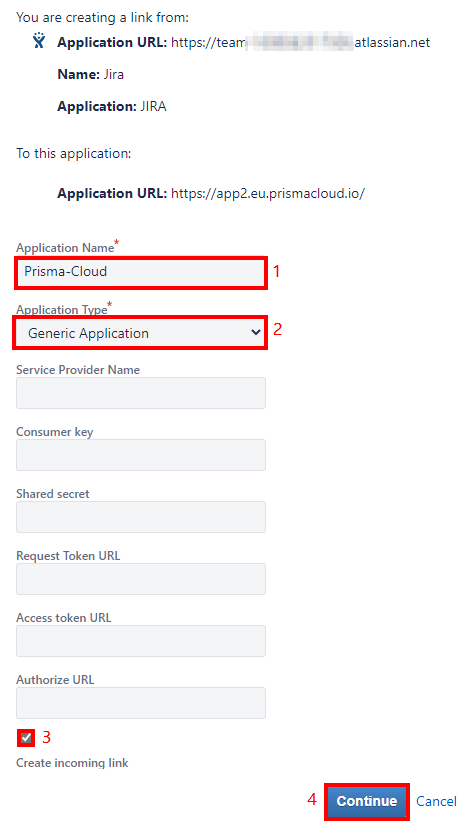
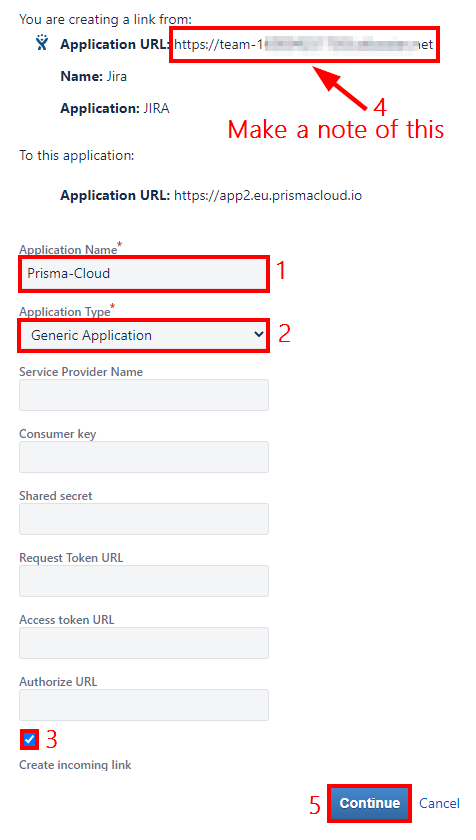
updated module 4

diff --git a/workshops/azure-cloud-protection/modules/4-jira-integration.md b/workshops/azure-cloud-protection/modules/4-jira-integration.md
@@ -12,6 +12,7 @@ In the previous module, you added your Azure AD tenant to Prisma Cloud. In this 
 >* Configure JIRA integration in your Prisma Cloud account
 >* Create a JIRA notification template in your Prisma Cloud account
 >* Create an alert rule in Prisma Cloud to raise tasks in JIRA
+>* Verify Prisma Cloud alerts in JIRA
 
 ## Exercise 1 - Prepare JIRA for integration
 >* In order to integrate Prisma Cloud with JIRA, we need to create a Prisma Cloud Application link in JIRA. This process requires an account that has administrative privileges in JIRA.
@@ -22,7 +23,7 @@ In the previous module, you added your Azure AD tenant to Prisma Cloud. In this 
 
 ![jira-products](../images/4-jira-products.png)
 
-3. In the **Configure Application Links** window, enter your Prisma Cloud console URL and click **`Create new link`**
+3. On the **Products** page, click on **`Application links`**. In the **Configure Application Links** window, enter your Prisma Cloud console URL and click **`Create new link`**
 >* You can get a full list of the console URLs [from this document](https://docs.paloaltonetworks.com/prisma/prisma-cloud/prisma-cloud-admin/get-started-with-prisma-cloud/access-prisma-cloud.html)
 >* Make sure you use your console URL for your Prisma cloud tenant.
 
@@ -51,8 +52,6 @@ In the previous module, you added your Azure AD tenant to Prisma Cloud. In this 
    * Click **`Continue`**
 
 ![jira-app-link-config](../images/4-jira-app-link-config-b.png)
-
-
 
 ## Exercise 2 - Configure JIRA integration in Prisma Cloud
 1. Open a web browser and go to your Prisma Cloud console 
@@ -94,7 +93,9 @@ In the previous module, you added your Azure AD tenant to Prisma Cloud. In this 
 
 9. Click on **`SAVE`**
 
+10. The JIRA integration status should show a green check mark.
 
+![prisma-jira-status](../images/4-prisma-jira-status.png)
 
 ## Exercise 3 - Create notification template in Prisma Cloud
 1. In the Prisma Cloud console, go to **`Alerts`** → **`Notification Templates`** → **`Add New`**.
@@ -135,12 +136,18 @@ In the previous module, you added your Azure AD tenant to Prisma Cloud. In this 
       <$PolicyRecommendation>
    ```
    * Click **`Next`**
+
 ![prisma-jira-alert-format](../images/4-prisma-jira-alert-format.png)
+
+**For more information on the alert payload field, please refer to this document: [Prisma Cloud Alert Payload](https://docs.paloaltonetworks.com/prisma/prisma-cloud/prisma-cloud-admin/manage-prisma-cloud-alerts/alert-payload)**
 
 5. In the **Review** section, click **`Test`** then click **`Save`**
 
 ![prisma-jira-template-test](../images/4-prisma-jira-template-test.png)
 
+6. You should see a success message in the top right corner. Also, the JIRA integration status should show a green check mark.
+
+![prisma-jira-template-status](../images/4-prisma-jira-template-status.png)
 
 ## Exercise 4 - Create alert rule in Prisma Cloud
 1. In the Prisma Cloud console, go to **`Alerts`** → **`Alert Rules`** → **`Add New`**.
@@ -177,9 +184,19 @@ In the previous module, you added your Azure AD tenant to Prisma Cloud. In this 
 ![](../images/4-prisma-jira-notification.png)
 
 
+## Exercise 5 - Verify alerts in JIRA
+1. Back in the JIRA console, go to the **`Azure-Cloud-Security`** project that you created in the pre-requisite section.
+
+2. In the **Kanban board** of the project, you should see a sample alert that was sent as a test from Prisma Cloud.
+
+![prisma-alertrule-run](../images/4-jira-alert-01.png)
+
+3. Other alerts will be sent into JIRA as we continue through the workshop.
+
 ## Learn more
 * [Integrate Prisma Cloud with Jira](https://docs.paloaltonetworks.com/prisma/prisma-cloud/prisma-cloud-admin/configure-external-integrations-on-prisma-cloud/integrate-prisma-cloud-with-jira.html)
 * [Create an Alert Rule for Run-Time Checks](https://docs.paloaltonetworks.com/prisma/prisma-cloud/prisma-cloud-admin/manage-prisma-cloud-alerts/create-an-alert-rule.html)
+* [Prisma Cloud Alert Payload](https://docs.paloaltonetworks.com/prisma/prisma-cloud/prisma-cloud-admin/manage-prisma-cloud-alerts/alert-payload)
 
 ## Next steps
 In this module, you completed the following:
@@ -187,6 +204,7 @@ In this module, you completed the following:
 >* Configured JIRA integration in your Prisma Cloud account
 >* Created a JIRA notification template in your Prisma Cloud account
 >* Created an alert rule in Prisma Cloud to raise tasks in JIRA
+>* Verified Prisma Cloud alerts in JIRA
 
-In the next module, you will deploy a vulnerable by design template in your Azure subscription. Click here to proceed to the next module:
-> [Deploy vulnerable workload using terraform](5-deploy-vulnearble-workload.md)
+In the next module, you will review and remediate issues with your Azure subscription, in Prisma Cloud. Click here to proceed to the next module:
+> [Review and remediate issues with Prisma Cloud](5-respond-and-remediate.md)
